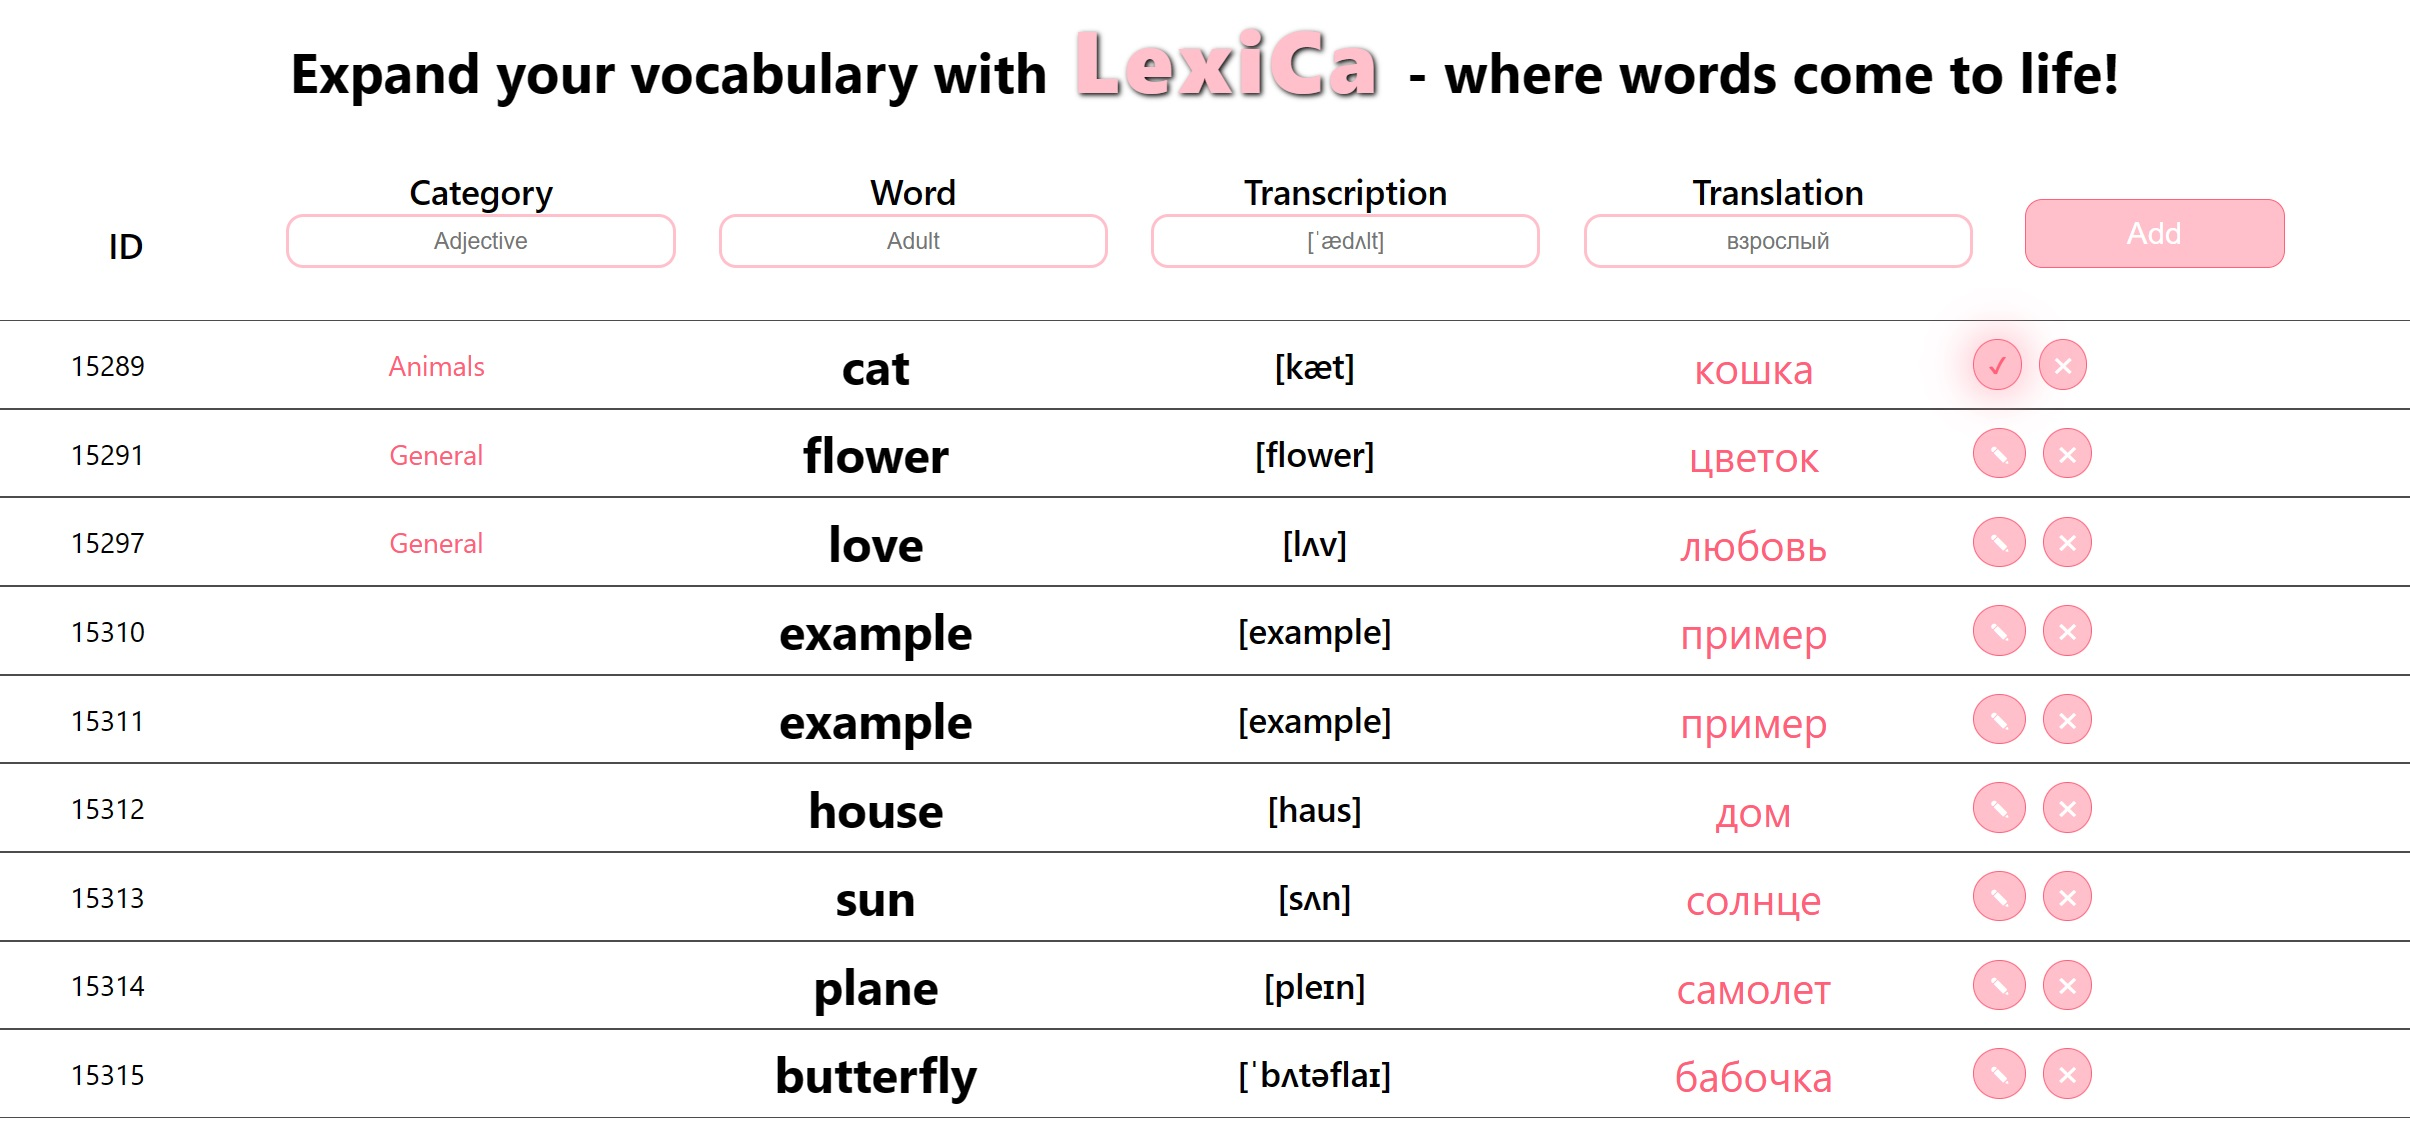
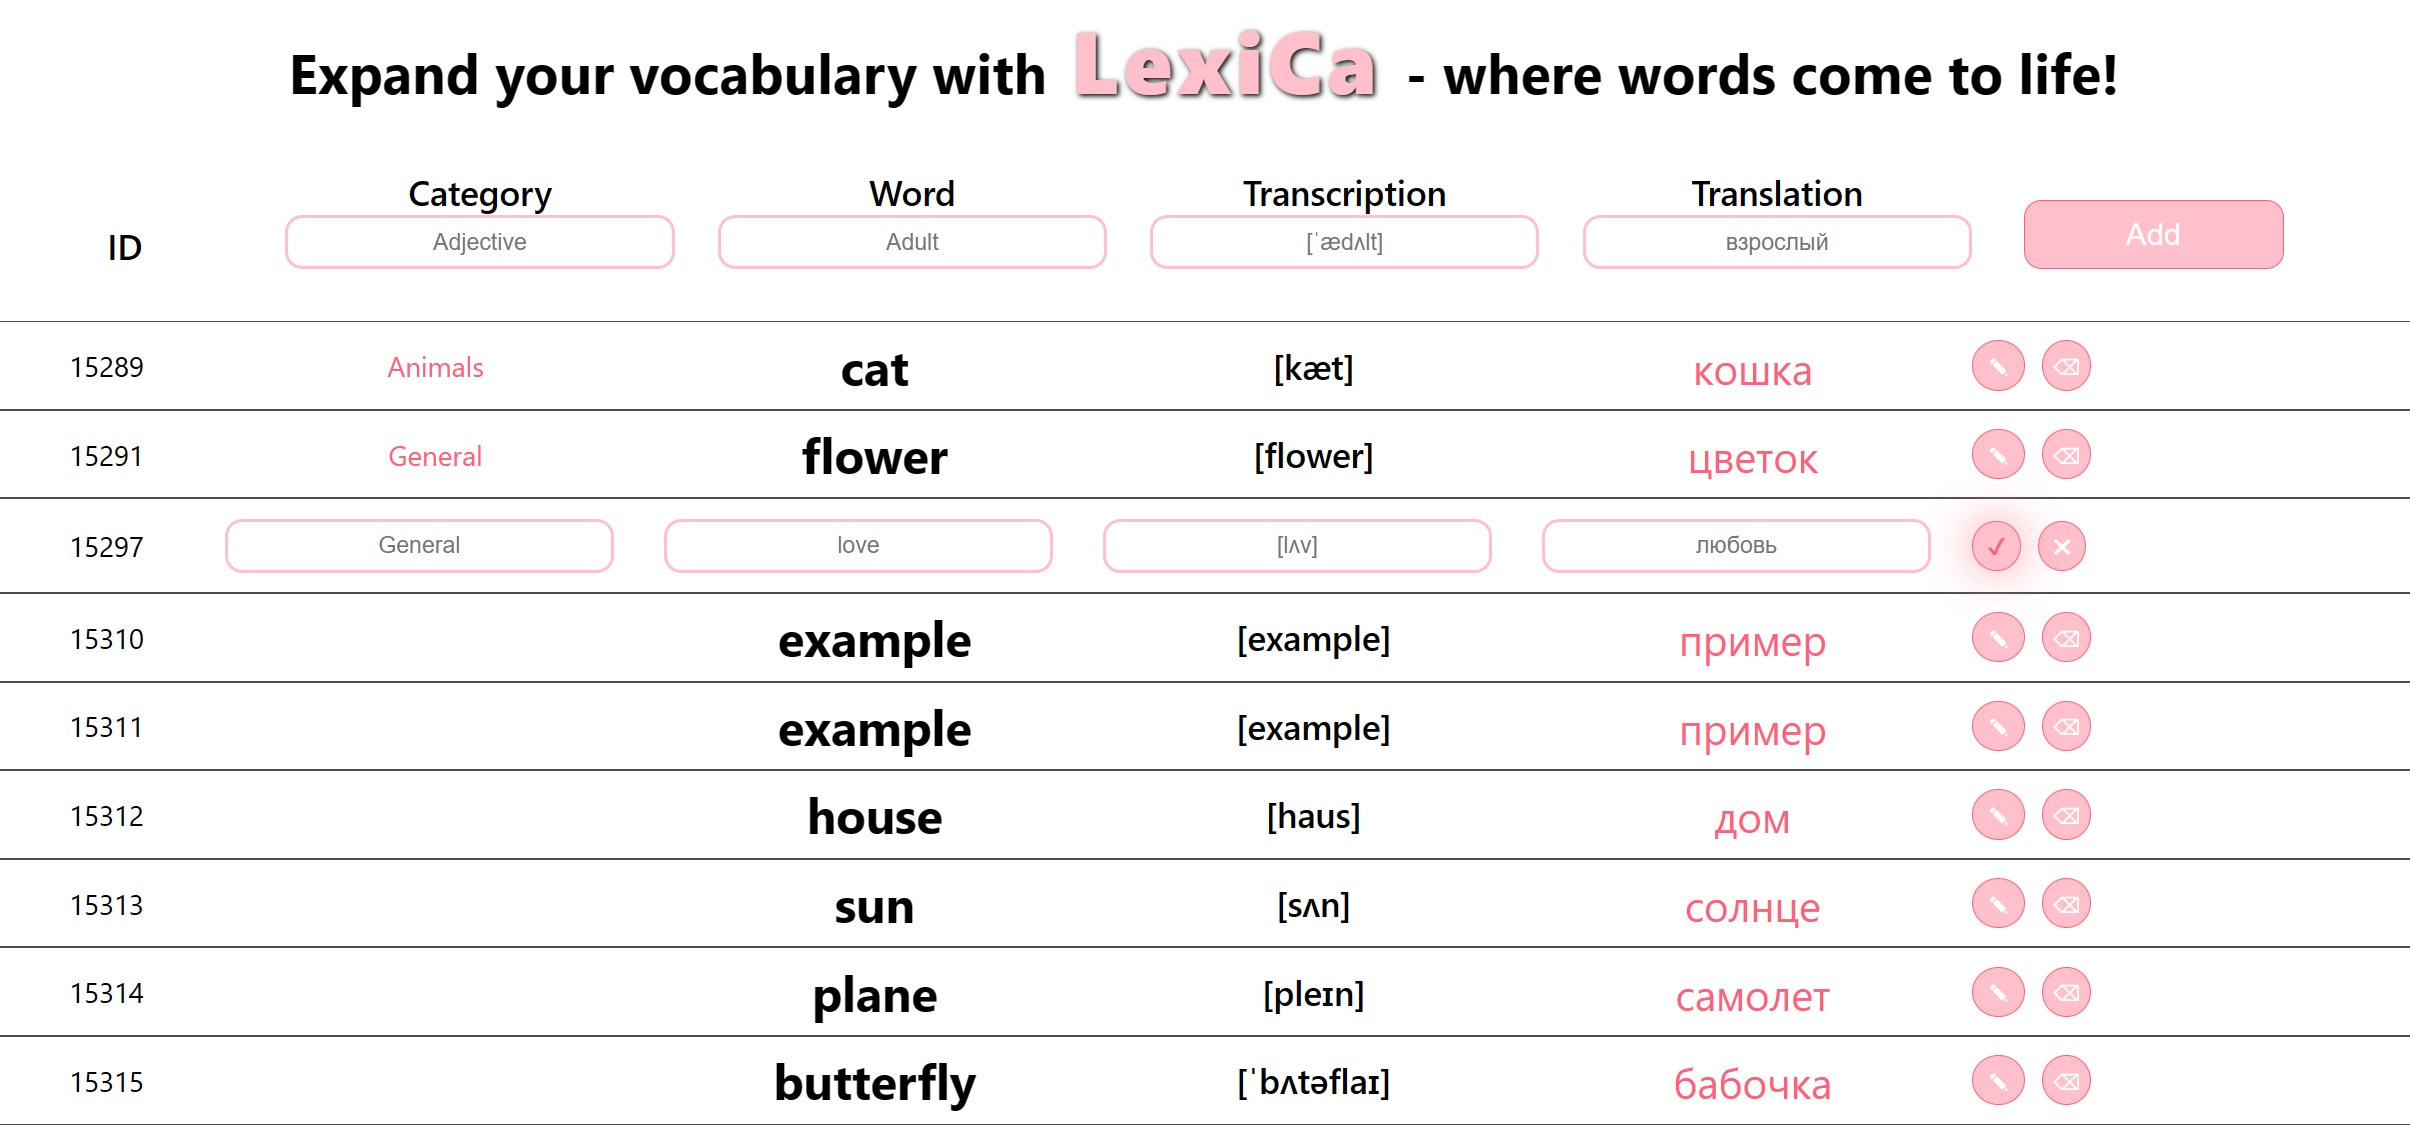
inputs to the list

diff --git a/src/components/Card/CardForList.jsx b/src/components/Card/CardForList.jsx
@@ -1,30 +1,40 @@
 import React, { useState } from 'react';
 import styles from './cardForList.module.css'
 
-
-
 function CardForList({id, category, word, transcription, translation}) {
-    const [isButtonVisible, setIsButtonVisible] = useState(true);
+    const [isVisible, setIsVisible] = useState(true);
 
     const handleToggle = () => {
-        setIsButtonVisible((prev) => !prev);
+        setIsVisible((prev) => !prev);
     };
     return (
         <div className={styles.card}>
-            <div className={styles.id}>{id}</div>
-            <div className={styles.category}>{category}</div>
-            <div className={styles.word}>{word}</div>
-            <div className={styles.transcription}>{transcription}</div>
-            <div className={styles.translation}> {translation} </div>
-            <div className={styles.buttons}>
-            { isButtonVisible ? (
-                <button className={styles.buttonEdit} onClick={handleToggle}>✎</button>
+            { isVisible ? (
+                <>
+                    <div className={styles.id}>{id}</div>
+                    <div className={styles.category}>{category}</div>
+                    <div className={styles.word}>{word}</div>
+                    <div className={styles.transcription}>{transcription}</div>
+                    <div className={styles.translation}> {translation} </div>
+                    <div className={styles.buttons}>
+                        <button className={styles.buttonEdit} onClick={handleToggle}>✎</button>
+                        <button className={styles.buttonDelete}>⌫</button>
+                    </div>
+                </>
             ) : (
-                <button className={styles.buttonSave} onClick={handleToggle}>✔</button>
-                
+                <>
+                    <p>{id}</p>
+                    <input type="text" placeholder={category}></input>
+                    <input type="text" placeholder={word}></input>
+                    <input type="text" placeholder={transcription}></input>
+                    <input type="text" placeholder={translation}></input>
+                    <div className={styles.buttons}>
+                        <button className={styles.buttonSave} onClick={handleToggle}>✔</button>
+                        <button className={styles.buttonCancel}>✖</button>
+                    </div>
+                </>
             )}
-                <button className={styles.buttonDelete}>✖</button>
-            </div>
+                
         </div >
     );
 }

diff --git a/src/components/Card/cardForList.module.css b/src/components/Card/cardForList.module.css
@@ -42,7 +42,7 @@
     align-items: center;
     gap: 10px;
 }
-.buttonEdit, .buttonDelete, .buttonSave {
+.buttonEdit, .buttonDelete, .buttonSave, .buttonCancel {
     padding: 5px 8px;
     border-radius: 50%;
     background-image: var(--gradient);
@@ -51,10 +51,14 @@
     cursor: pointer;
 }
 
-.buttonEdit:hover, .buttonDelete:hover, .buttonSave:hover {
+.buttonDelete {
+    padding: 5px 5px;
+}
+
+.buttonEdit:hover, .buttonDelete:hover, .buttonSave:active, .buttonCancel:active {
     filter: var(--filterDropShadow);
 }
 
-.buttonEdit:active, .buttonDelete:active, .buttonSave:active {
+.buttonEdit:active, .buttonDelete:active, .buttonSave:active, .buttonCancel:active {
     color: var(--third-color);
 }
